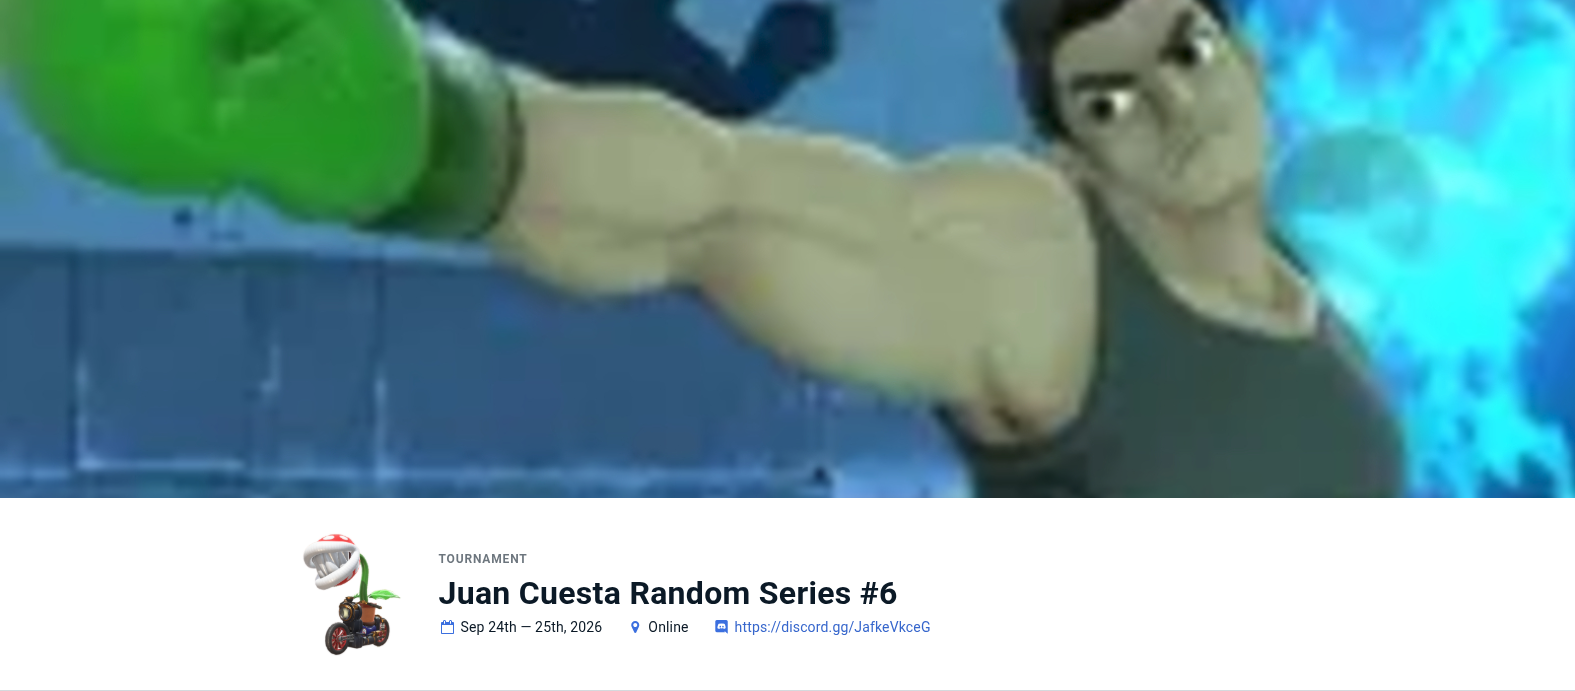
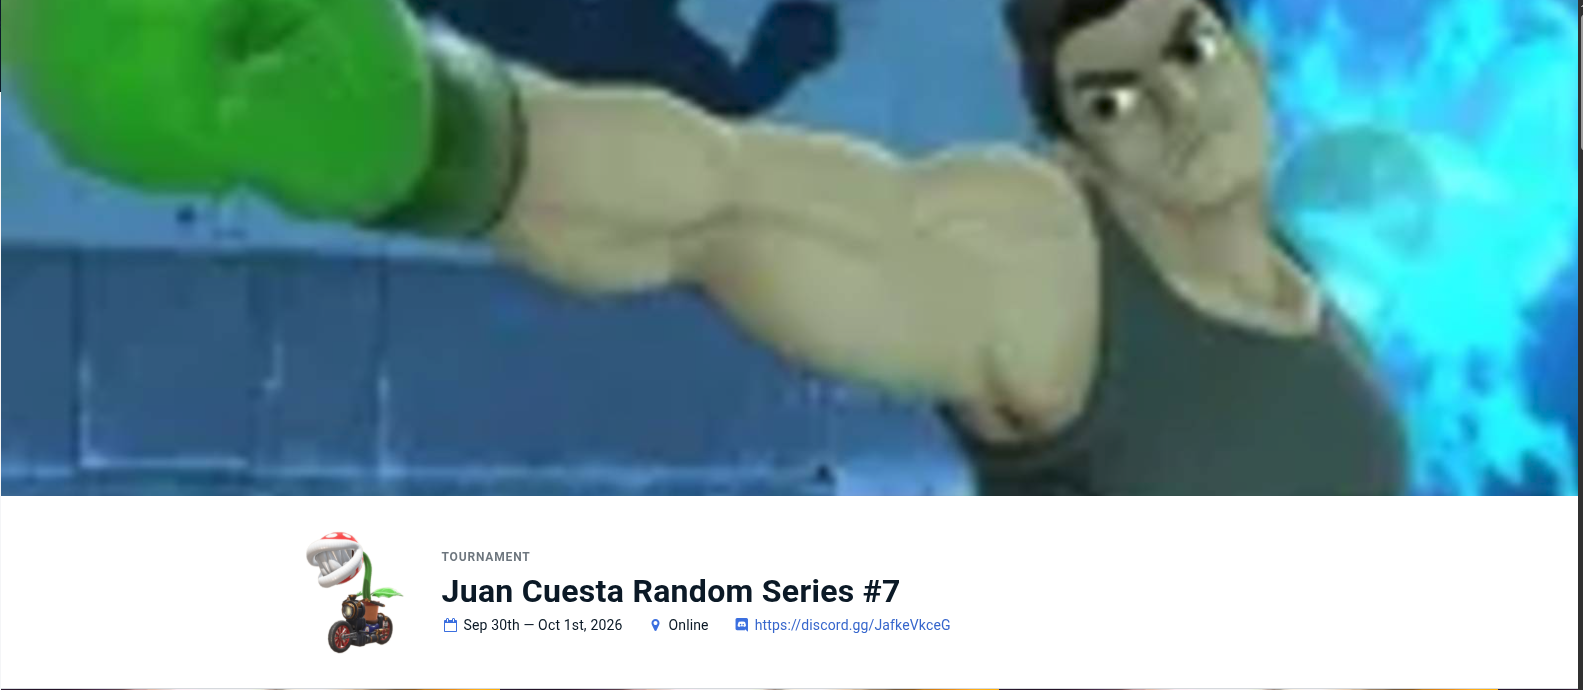
V 0.1.1.0.3
-Torneos de la semana actualizados
-Bugfix de un título

diff --git a/torneos.html b/torneos.html
@@ -66,6 +66,34 @@
 
         <br><br>
 
+        <h2>Juan Cuesta Random Series #7</h2>
+
+        <br><br>
+
+        <img id="Top8"src="imagenes/Torneo.png">
+
+        <p><a target="_blank" href="https://www.start.gg/tournament/juan-cuesta-random-series-7/details">Startgg</a></p>
+
+        <br><br>
+
+        <p>Ultimate Singles Only B Tiers</p>
+
+        <br><br>
+
+        <p>Límite de 6 attendees</p>
+
+        <br><br>
+
+        <p>Miércoles 30 de 21:30/22:00 a 00:00</p>
+
+        <br><br>
+
+        <p>Torneo en: </p>
+
+        <div id="timer"></div>
+
+        <br><br>
+
         <h2 id="pasados">TORNEOS PASADOS</h2>
 
         <br><br>
@@ -74,7 +102,7 @@
 
         <br><br>
 
-        <h2>Juan Cuesta Yikeng Series</h2>
+        <h2>Juan Cuesta Yikeng Series #1</h2>
 
         <br><br>
 
@@ -424,7 +452,7 @@
     </script>
 
         <script>
-        const countDownDate = new Date("Sep 24, 2026 21:30:00").getTime();
+        const countDownDate = new Date("Sep 30, 2026 21:30:00").getTime();
 
         const x = setInterval(function () {
 
